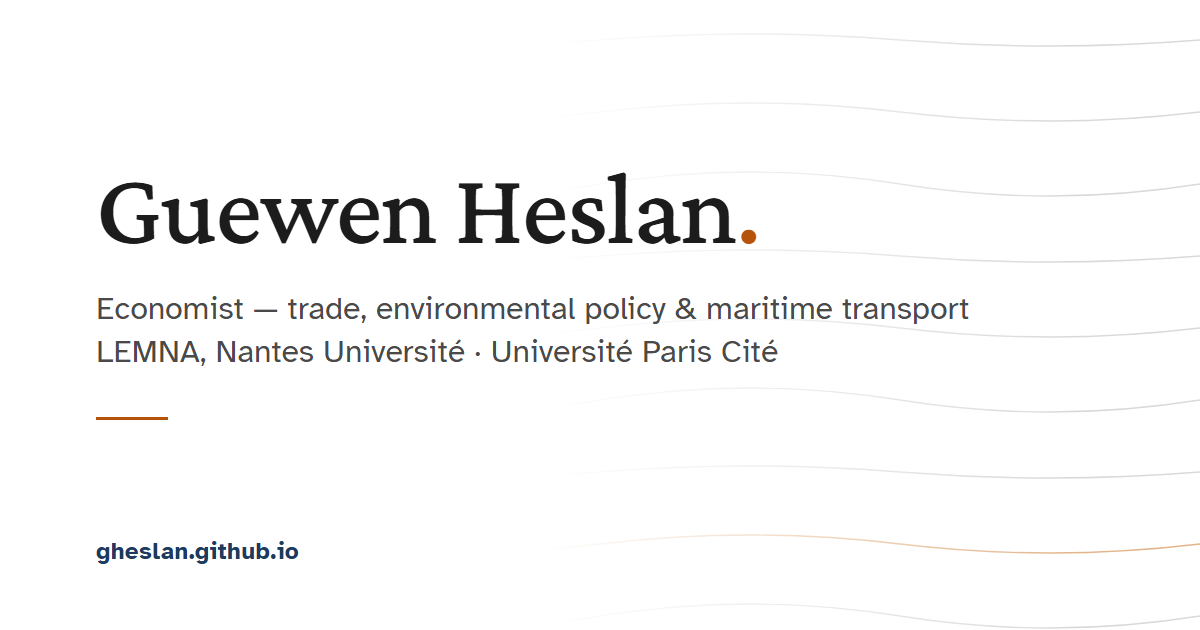
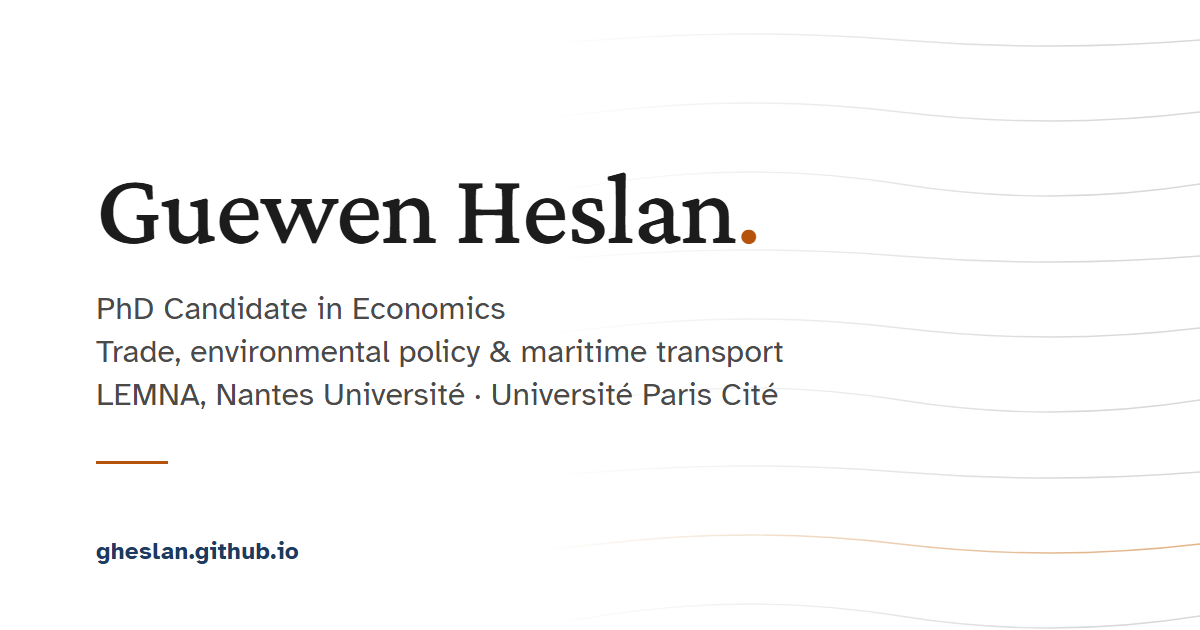
Use 'PhD Candidate in Economics' as title, add Google Search Console verification

diff --git a/fr/index.html b/fr/index.html
@@ -3,7 +3,7 @@
 <head>
   <meta charset="utf-8">
   <meta name="viewport" content="width=device-width, initial-scale=1">
-  <title>Guewen Heslan — Économiste</title>
+  <title>Guewen Heslan — Doctorant en économie</title>
   <meta name="description" content="Guewen Heslan, doctorant en économie (LEMNA, Nantes Université) et ATER à l’Université Paris Cité. Commerce international, politique environnementale et transport maritime.">
   <link rel="canonical" href="https://gheslan.github.io/fr/">
   <link rel="alternate" hreflang="en" href="https://gheslan.github.io/">
@@ -11,7 +11,7 @@
   <link rel="alternate" hreflang="x-default" href="https://gheslan.github.io/">
   <meta property="og:type" content="website">
   <meta property="og:site_name" content="Guewen Heslan">
-  <meta property="og:title" content="Guewen Heslan — Économiste">
+  <meta property="og:title" content="Guewen Heslan — Doctorant en économie">
   <meta property="og:description" content="Guewen Heslan, doctorant en économie (LEMNA, Nantes Université) et ATER à l’Université Paris Cité. Commerce international, politique environnementale et transport maritime.">
   <meta property="og:url" content="https://gheslan.github.io/fr/">
   <meta property="og:image" content="https://gheslan.github.io/assets/img/og-image.png">

diff --git a/index.html b/index.html
@@ -3,7 +3,7 @@
 <head>
   <meta charset="utf-8">
   <meta name="viewport" content="width=device-width, initial-scale=1">
-  <title>Guewen Heslan — Economist</title>
+  <title>Guewen Heslan — PhD Candidate in Economics</title>
   <meta name="description" content="Guewen Heslan, PhD candidate in economics (LEMNA, Nantes Université) and ATER at Université Paris Cité. Trade, environmental policy and maritime transport.">
   <link rel="canonical" href="https://gheslan.github.io/">
   <link rel="alternate" hreflang="en" href="https://gheslan.github.io/">
@@ -11,7 +11,7 @@
   <link rel="alternate" hreflang="x-default" href="https://gheslan.github.io/">
   <meta property="og:type" content="website">
   <meta property="og:site_name" content="Guewen Heslan">
-  <meta property="og:title" content="Guewen Heslan — Economist">
+  <meta property="og:title" content="Guewen Heslan — PhD Candidate in Economics">
   <meta property="og:description" content="Guewen Heslan, PhD candidate in economics (LEMNA, Nantes Université) and ATER at Université Paris Cité. Trade, environmental policy and maritime transport.">
   <meta property="og:url" content="https://gheslan.github.io/">
   <meta property="og:image" content="https://gheslan.github.io/assets/img/og-image.png">

diff --git a/google79a7dd6c6961bad9.html b/google79a7dd6c6961bad9.html
@@ -1,0 +1,1 @@
+google-site-verification: google79a7dd6c6961bad9.html

diff --git a/src/build.py b/src/build.py
@@ -170,6 +170,8 @@ def page(lang, rel, title, desc, body, jsonld=None, noindex=False):
     og_img = BASE + "assets/img/og-image.png"
     ld = f'\n  <script type="application/ld+json">{json.dumps(jsonld, ensure_ascii=False)}</script>' if jsonld else ""
     robots = '\n  <meta name="robots" content="noindex">' if noindex else ""
+    if SITE.get("google_site_verification"):
+        robots += f'\n  <meta name="google-site-verification" content="{attr(SITE["google_site_verification"])}">'
     stats = ""
     if SITE.get("goatcounter"):
         stats = (f'\n  <script data-goatcounter="https://{SITE["goatcounter"]}.goatcounter.com/count" '

diff --git a/src/og_image.py b/src/og_image.py
@@ -34,7 +34,7 @@ HTML = """<!doctype html><html><head><meta charset="utf-8">
 <svg class="iso" viewBox="0 0 1200 630" preserveAspectRatio="none">PATHS</svg>
 <div class="card">
   <h1>Guewen Heslan<span>.</span></h1>
-  <p>Economist — trade, environmental policy &amp; maritime transport<br>LEMNA, Nantes Université · Université Paris Cité</p>
+  <p>PhD Candidate in Economics<br>Trade, environmental policy &amp; maritime transport<br>LEMNA, Nantes Université · Université Paris Cité</p>
   <div class="bar"></div>
 </div>
 <div class="url">gheslan.github.io</div>

diff --git a/README.md b/README.md
@@ -58,8 +58,8 @@ no personal data stored, so no consent banner is required. Create an account, th
 ## Optional: Google Search Console
 
 To follow how the site appears in Google, add the property `https://gheslan.github.io/` in
-[Search Console](https://search.google.com/search-console) (HTML-tag verification: send me the
-`<meta name="google-site-verification">` tag to add), then submit `https://gheslan.github.io/sitemap.xml`.
+[Search Console](https://search.google.com/search-console) (HTML-tag verification: paste the tag's `content` value into
+`google_site_verification` in `content/site.toml`, rebuild and push), then submit `https://gheslan.github.io/sitemap.xml`.
 
 ## Private files
 
